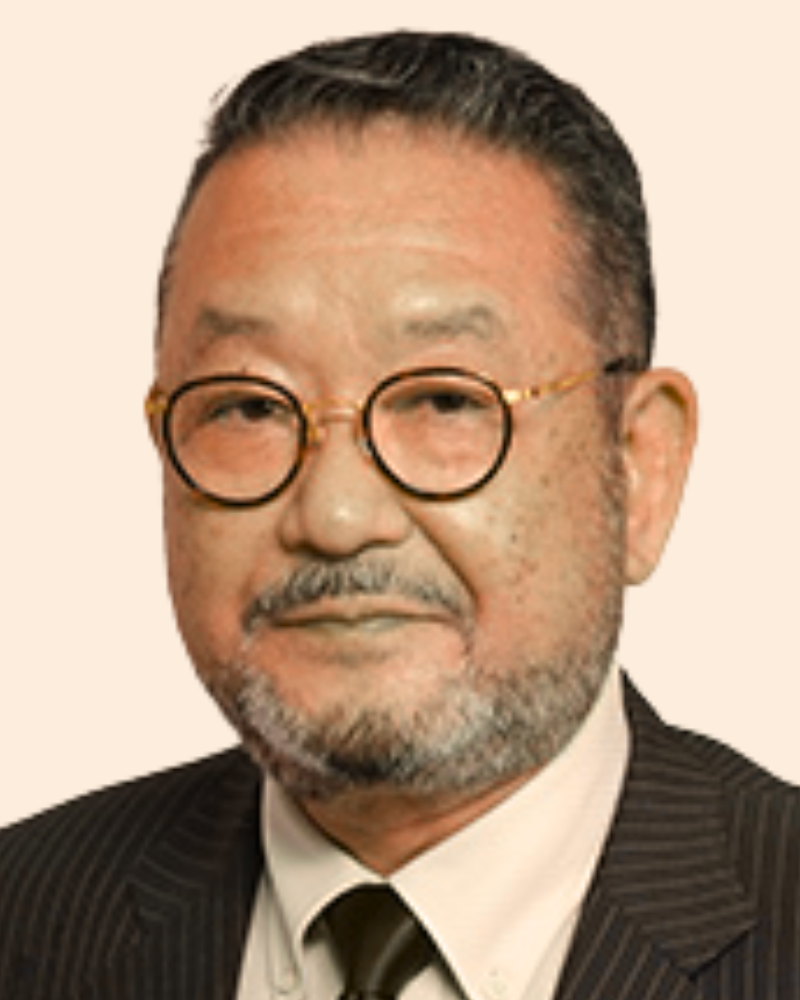
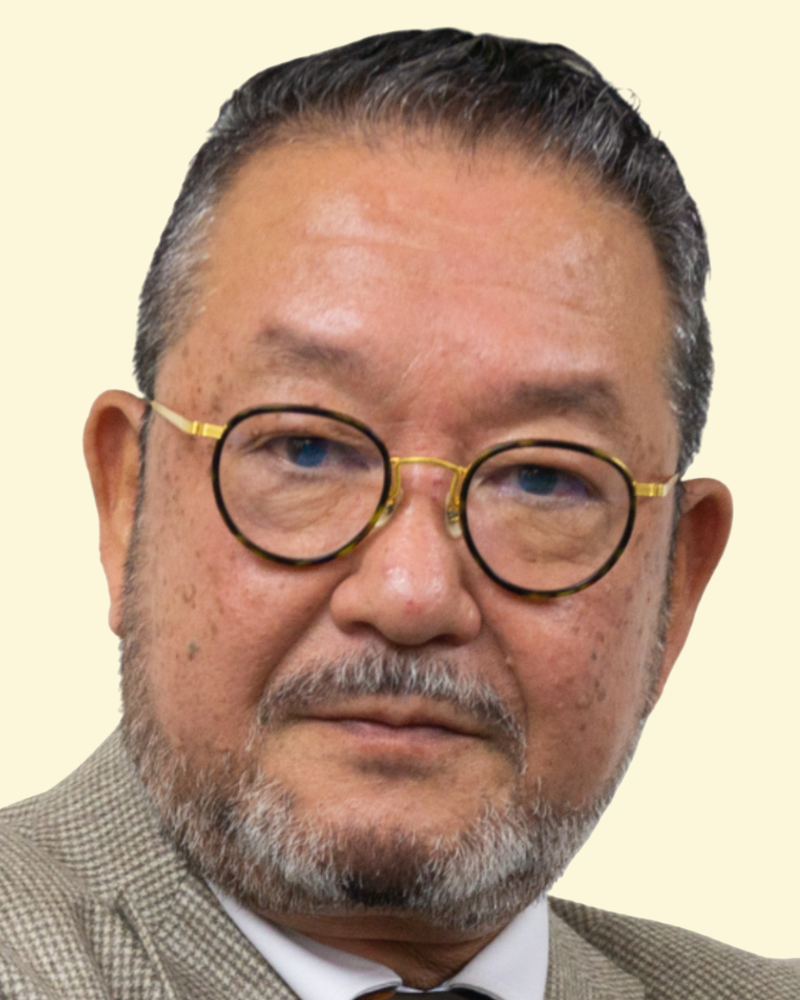
折元プロフィール再修正

diff --git a/public/index.html b/public/index.html
@@ -978,7 +978,7 @@
                 <li>・監視カメラ</li>
                 <li>・緊急通報システム</li>
               </ul>
-              <p class="text-sm font-bold text-orange-700 mb-2">100万円前後</p>
+              <p class="text-sm font-bold text-orange-700 mb-2">100万円前後<span class="font-normal text-xs">(家全体もやった場合)</span></p>
               <span class="inline-block bg-orange-500 text-white text-xs px-2 py-1 rounded">最短1日で施工完了</span>
             </div>
           </div>
@@ -1582,7 +1582,7 @@
       <div class="p-4 sm:p-6 space-y-6 sm:space-y-8">
         <!-- 講師紹介セクション -->
         <div class="flex flex-col sm:flex-row items-center sm:items-start gap-4 sm:gap-6 bg-gray-50 p-4 sm:p-6 rounded-xl">
-          <div class="w-24 h-24 rounded-full overflow-hidden flex-shrink-0 border-4 border-primary-500 shadow-lg">
+          <div class="w-32 h-40 rounded-xl overflow-hidden flex-shrink-0 border-4 border-primary-500 shadow-lg">
             <img src="/assets/images/orimoto-hiromi.png" alt="折元洋巳" class="w-full h-full object-cover object-top">
           </div>
           <div class="text-center sm:text-left">
